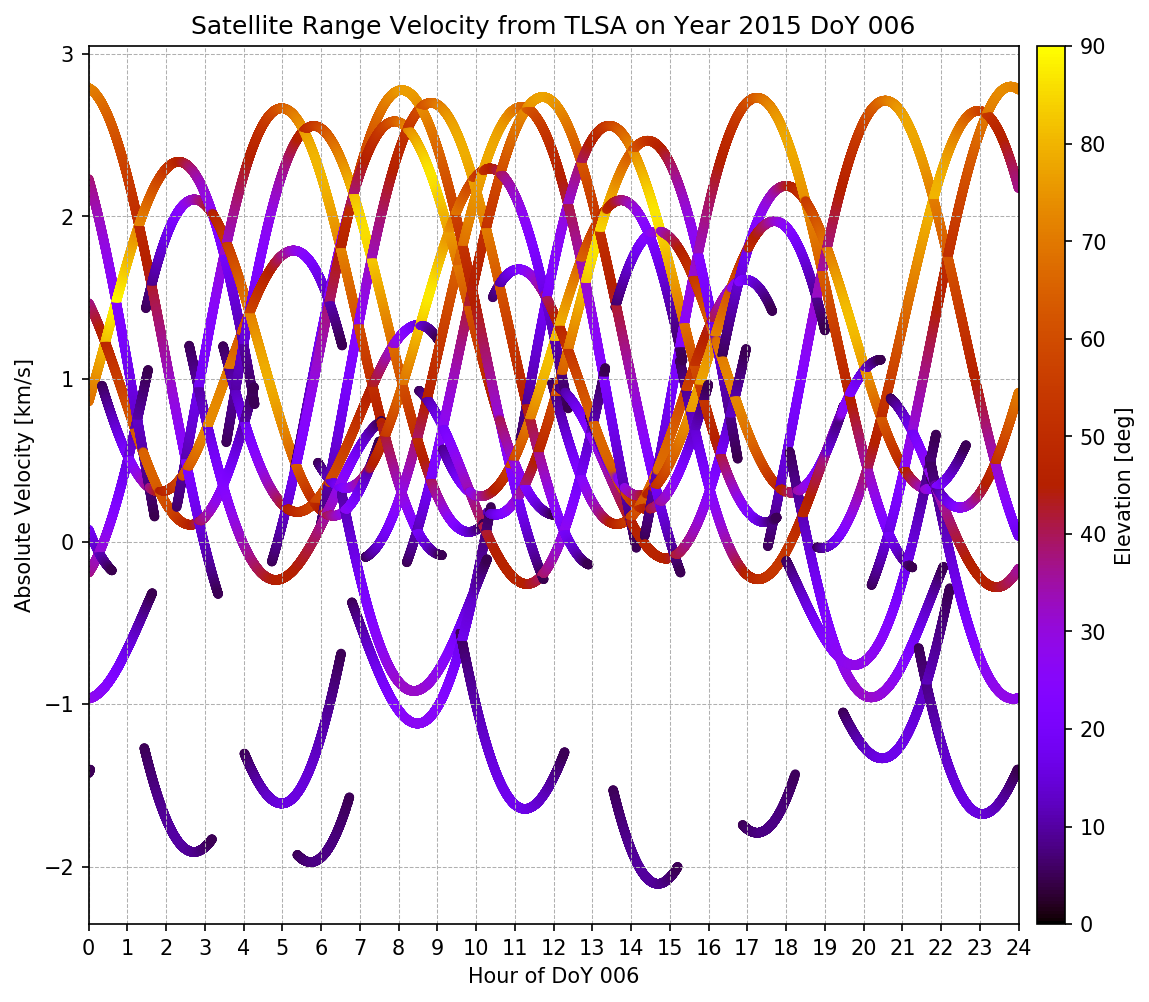
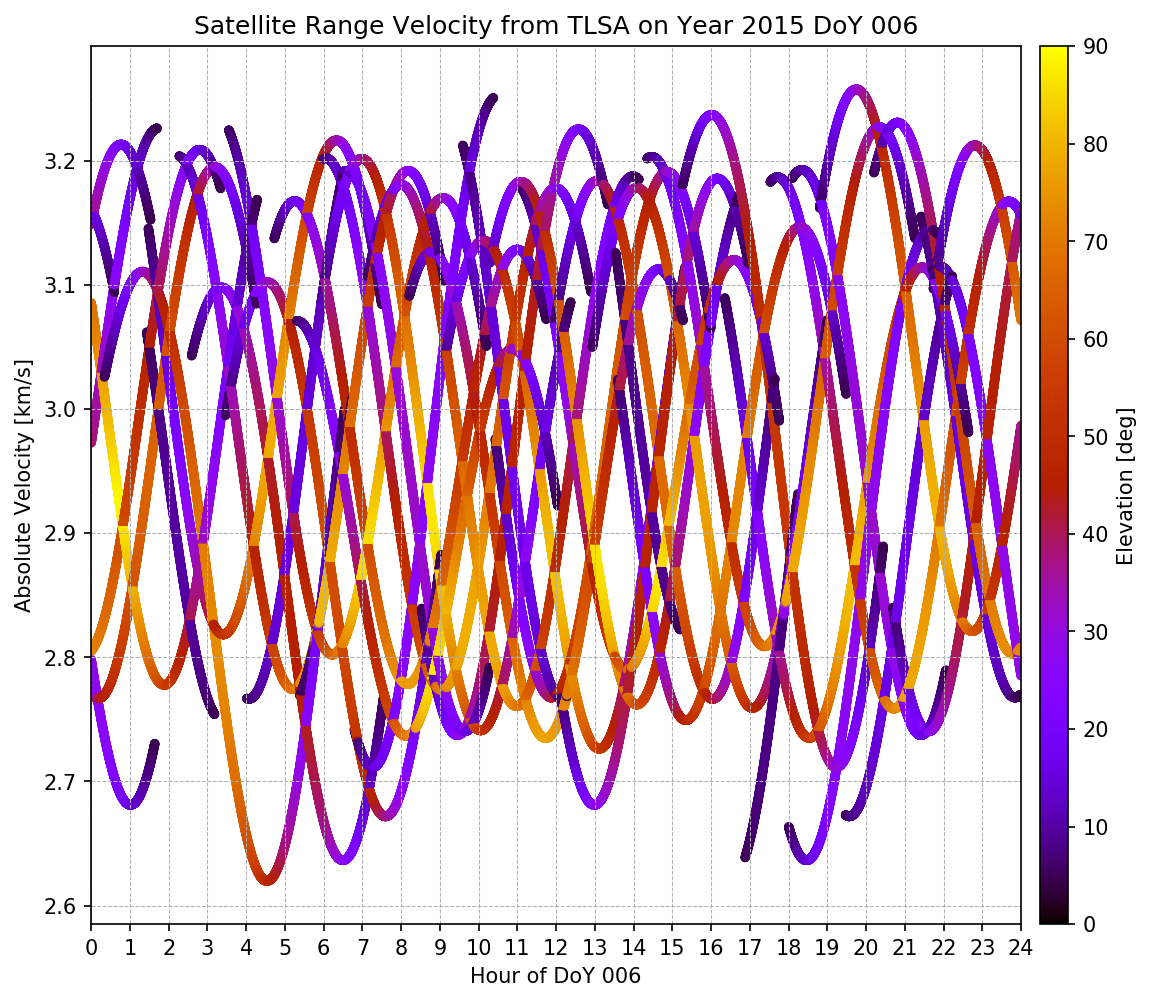
SatVelStable

diff --git a/SRC/SatFunctions.py b/SRC/SatFunctions.py
@@ -190,9 +190,10 @@ def plotSatVelocity(LosData):
     velZ = np.array(LosData[LOS_IDX["VEL-Z[m/s]"]])
     DataLen = len(velX)
     #velABS = np.zeros(DataLen)
-    velABS = []
+    #velABS = []
     
-    
+    velABSnp = np.sqrt(velX**2+velY**2+velZ**2) / GnssConstants.M_IN_KM
+
     #for index in range(DataLen):
         # Velocity abs converted to km/s
      #   value = (np.sqrt(np.square(velX[index]) + np.square(velY[index]) + np.square(velZ[index]))) / GnssConstants.M_IN_KM
@@ -223,6 +224,6 @@ def plotSatVelocity(LosData):
 
     PlotConf["Path"] = sys.argv[1] + '/OUT/LOS/SAT/' + 'SAT_VELOCITY_TLSA_D006Y15.png'
 
-    print("Executing generatePlot function....")
+    
     # Call generatePlot from Plots library
     generatePlot(PlotConf)
